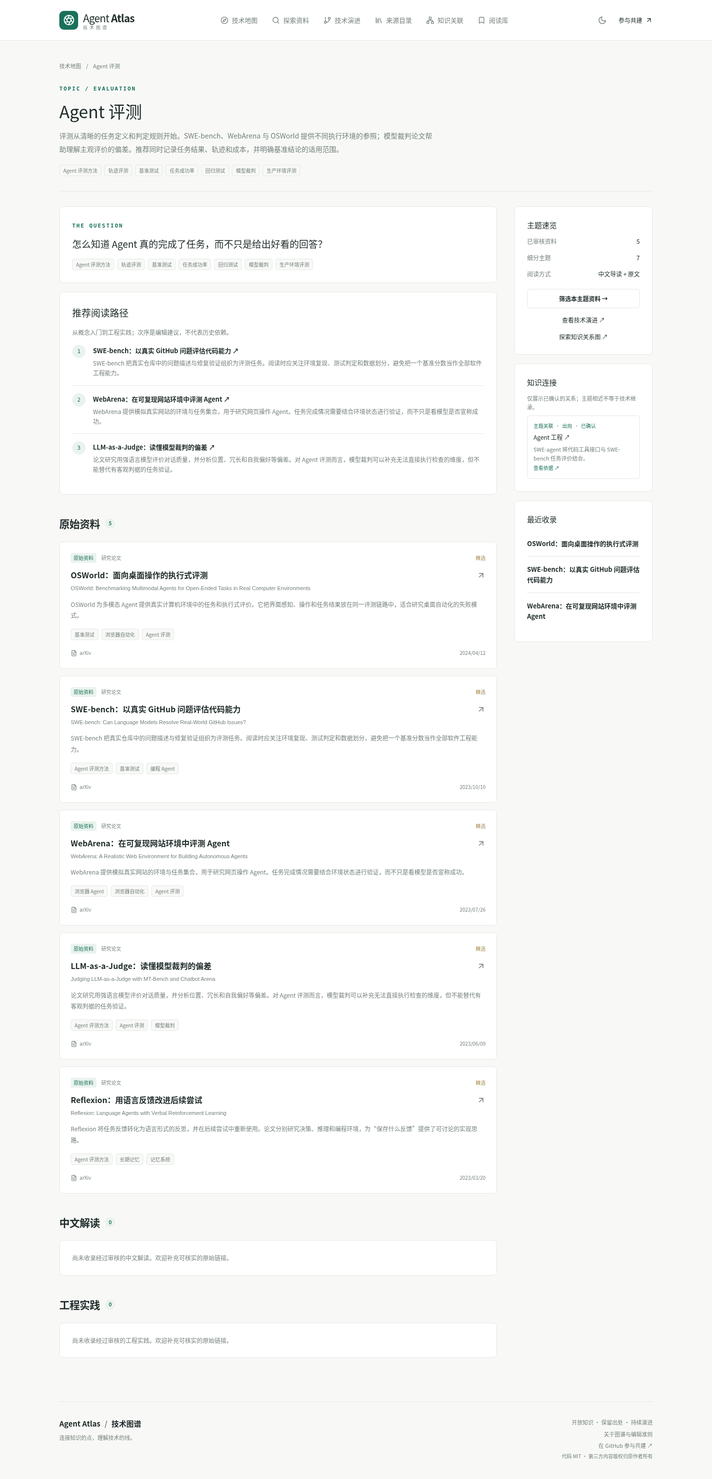
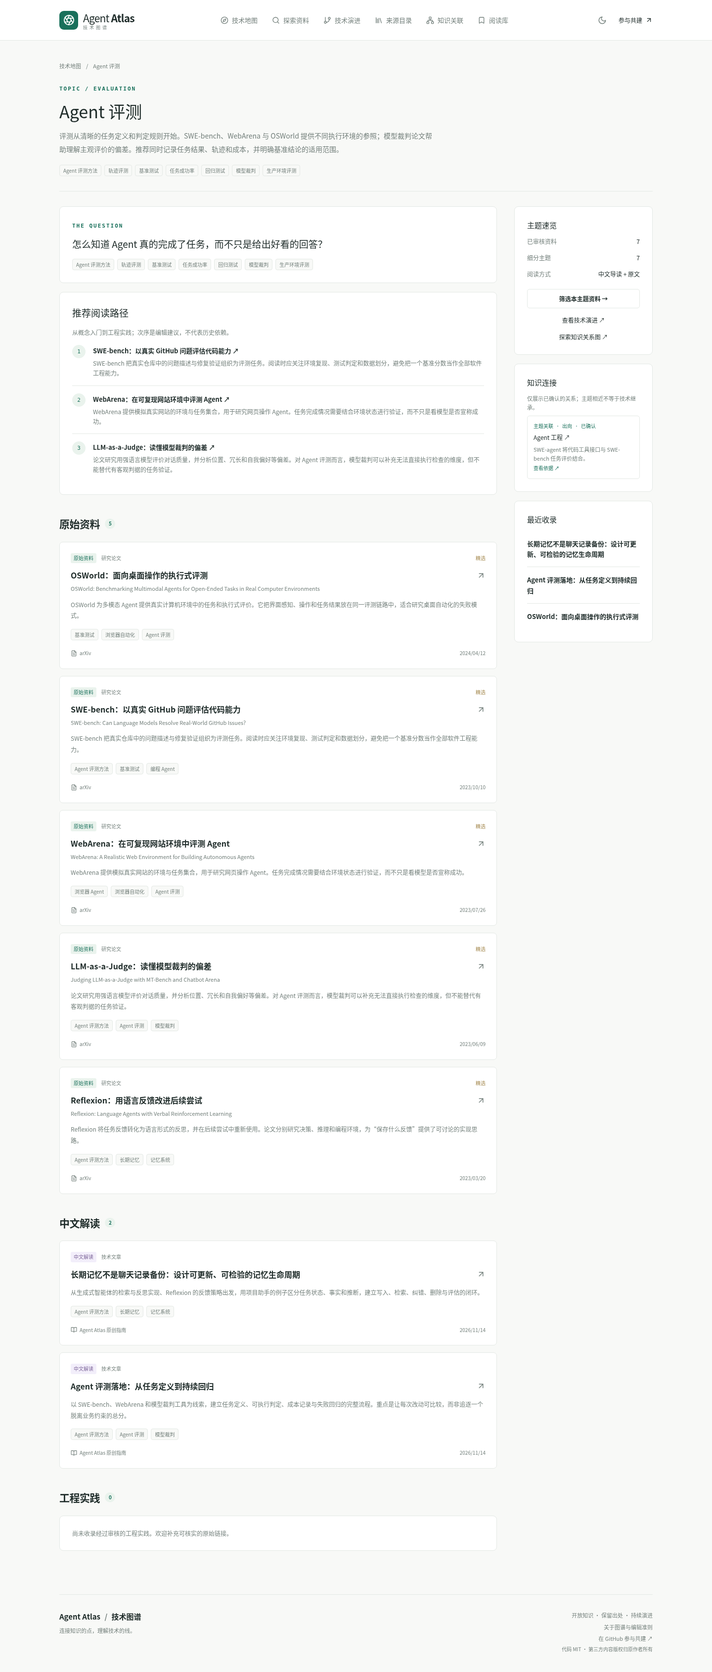
docs: document Render launch and Codex content workflow

diff --git a/PROGRESS.md b/PROGRESS.md
@@ -4,17 +4,17 @@
 
 ## 本轮完成模块
 
-| 提交                                                          | 内容                                                        | 状态         |
-| ------------------------------------------------------------- | ----------------------------------------------------------- | ------------ |
-| `91d9777`                                                     | 编辑历史/审计/任务锁迁移、加权检索、多层主题与稳定分页      | 已推送       |
-| `30a2dfc`                                                     | 持久客户端限流、代理信任边界、登录审计、密码轮换撤销会话    | 已推送       |
-| `7cb3c5b`                                                     | 并发编辑保护、历史差异与恢复、工程案例、主题CRUD、来源间隔  | 已推送       |
-| `806f7ee`                                                     | 安全代理、条件采集、持久调度/租约、失败隔离、重试与worker   | 已推送       |
-| `0b50dfa`                                                     | 知识图谱、收藏/已读/阅读库备份、动态SEO、RSS和站点地图      | 已推送       |
-| `8259381`                                                     | Docker/Compose、健康检查、一致性备份/离线恢复、部署回归与CI | 已推送       |
-| 本提交：`docs: finalize the verified Agent Atlas 1.0 release` | 1.0使用/部署/贡献文档、最新截图与验收记录                   | 随本提交推送 |
+| 提交      | 内容                                                        | 状态   |
+| --------- | ----------------------------------------------------------- | ------ |
+| `91d9777` | 编辑历史/审计/任务锁迁移、加权检索、多层主题与稳定分页      | 已推送 |
+| `30a2dfc` | 持久客户端限流、代理信任边界、登录审计、密码轮换撤销会话    | 已推送 |
+| `7cb3c5b` | 并发编辑保护、历史差异与恢复、工程案例、主题CRUD、来源间隔  | 已推送 |
+| `806f7ee` | 安全代理、条件采集、持久调度/租约、失败隔离、重试与worker   | 已推送 |
+| `0b50dfa` | 知识图谱、收藏/已读/阅读库备份、动态SEO、RSS和站点地图      | 已推送 |
+| `8259381` | Docker/Compose、健康检查、一致性备份/离线恢复、部署回归与CI | 已推送 |
+| `465a4c8` | 1.0使用/部署/贡献文档、最新截图与验收记录                   | 已推送 |
 
-最后一项可通过完整提交标题或 `git log -1 --format=%h` 定位。每个模块均先运行相关检查再提交推送，最终由主任务核对远端work与本地HEAD完全一致。
+完整历史可通过 `git log --oneline` 定位。每个模块均先运行相关检查再提交推送，最终由主任务核对远端work与本地HEAD完全一致。
 
 ## 当前产品能力
 
@@ -26,29 +26,29 @@
 - URL、微信公众号、JSON/CSV、RSS/Atom、GitHub元数据适配器；条件请求、到期调度、数据库租约、失败隔离、过期任务恢复和单来源重试。
 - 可选OpenAI兼容模型接口；规则建议、机器草稿和审核内容分开，无Key时人工流程完整可用。
 - Node.js 24或非root Docker/Compose部署，持续worker、健康检查、在线备份、受确认保护的离线恢复、持久卷和安全响应头。
-- 全新数据库：51个主题（7主要方向+44细分）、27条公开资料、13个来源、3个完整专题、12条种子关系。
+- 全新数据库：51个主题（7主要方向+44细分）、33条公开内容（27外部资料+6原创指南）、14个来源、3个完整专题、12条种子关系。
 - 本次工作区：另有真实MCP SDK feed收录的10条待审核资料及相应机器关系建议，未自动发布；无残留活动采集租约。
 
 ## 2026-11-14 验收结果
 
-| 检查                             | 实际结果                                                                                                              |
-| -------------------------------- | --------------------------------------------------------------------------------------------------------------------- |
-| Prisma generate / migrate / seed | 通过；升级迁移保留原有数据，重复seed不覆盖编辑                                                                        |
-| `npm run typecheck`              | 通过                                                                                                                  |
-| `npm test`                       | **60通过，0失败，0跳过**；包含隔离SQLite、会话/限流、版本并发、主题循环、查询、SSRF/代理、调度、AI协议、WAL备份与恢复 |
-| `npm run build`                  | 通过；后台和依赖运行配置的元数据路由保持动态                                                                          |
-| `npm run test:e2e`               | 5组生产Chromium脚本全部通过：公开页面、基本后台、历史/主题/并发、图谱/SEO/阅读、导入导出/公开接口/运维响应            |
-| 浏览器交互与布局                 | 图谱节点和证据、筛选空状态、暗色模式持久化、移动布局、历史恢复、过期输入保留；0浏览器运行时错误                       |
-| `npm audit`                      | 当前锁文件0漏洞；升级Zod4.6.6+、csv-parse7.0.2+，Prisma配置传递依赖deepmerge-ts覆盖至8+并验证生成/迁移                |
-| 真实来源采集                     | GitHub MCP SDK Atom首次10条待审；随后304未变更、无重复；任务页真实单源重试通过                                        |
-| 来源更新竞争                     | 修改feed时清空旧标记；在途旧200/304/503响应不能污染新来源状态或入库过时资料                                           |
-| Docker build                     | 完整构建成功，保留TLS校验；云代理CA使用BuildKit secret，不写入镜像                                                    |
-| Docker运行                       | UID1000、无.env、无构建期编辑口令；运行期配置后登录/编辑/发布/历史正常；默认CMD健康200                                |
-| Docker持久化与运维               | 在线备份→停止Web→离线恢复保留原库→同卷重启内容仍在；worker SIGTERM退出0且无遗留租约                                   |
-| 文档                             | 本地Markdown链接全部存在；安装、部署、代理、备份与贡献命令已更新                                                      |
-| GitHub Actions                   | 已配置无编辑密钥构建、完整测试与依赖审计；本次未读取远端Actions结果，不将本地通过描述为远端CI通过                     |
+| 检查                             | 实际结果                                                                                                                           |
+| -------------------------------- | ---------------------------------------------------------------------------------------------------------------------------------- |
+| Prisma generate / migrate / seed | 通过；升级迁移保留原有数据，重复seed不覆盖编辑                                                                                     |
+| `npm run typecheck`              | 通过                                                                                                                               |
+| `npm test`                       | **69通过，0失败，0跳过**；包含隔离SQLite、会话/限流、版本并发、主题循环、查询、SSRF/代理、调度、AI协议、WAL备份与恢复              |
+| `npm run build`                  | 通过；后台和依赖运行配置的元数据路由保持动态                                                                                       |
+| `npm run test:e2e`               | 6组生产Chromium脚本全部通过：公开页面、基本后台、历史/主题/并发、图谱/SEO/阅读、导入导出/公开接口/运维响应、原创指南/署名/移动阅读 |
+| 浏览器交互与布局                 | 图谱节点和证据、筛选空状态、暗色模式持久化、移动布局、历史恢复、过期输入保留；0浏览器运行时错误                                    |
+| `npm audit`                      | 当前锁文件0漏洞；升级Zod4.6.6+、csv-parse7.0.2+，Prisma配置传递依赖deepmerge-ts覆盖至8+并验证生成/迁移                             |
+| 真实来源采集                     | GitHub MCP SDK Atom首次10条待审；随后304未变更、无重复；任务页真实单源重试通过                                                     |
+| 来源更新竞争                     | 修改feed时清空旧标记；在途旧200/304/503响应不能污染新来源状态或入库过时资料                                                        |
+| Docker build                     | 完整构建成功，保留TLS校验；云代理CA使用BuildKit secret，不写入镜像                                                                 |
+| Docker运行                       | UID1000、无.env、无构建期编辑口令；运行期配置后登录/编辑/发布/历史正常；默认CMD健康200                                             |
+| Docker持久化与运维               | 在线备份→停止Web→离线恢复保留原库→同卷重启内容仍在；worker SIGTERM退出0且无遗留租约                                                |
+| 文档                             | 本地Markdown链接全部存在；安装、部署、代理、备份与贡献命令已更新                                                                   |
+| GitHub Actions                   | 已配置无编辑密钥构建、完整测试与依赖审计；本次未读取远端Actions结果，不将本地通过描述为远端CI通过                                  |
 
-真实容器验证使用隔离数据库卷，临时容器、卷及测试口令文件已清理。最终镜像 `agent-atlas:validation` 已重新构建纳入最后的来源编辑补丁。当前工作区生产服务运行于3000端口；正式部署的域名、HTTPS和持久磁盘按运维文档配置。
+真实容器验证使用隔离数据库卷，临时容器、卷及测试口令文件已清理。上一轮镜像 `agent-atlas:validation` 验证完整运维流程；本轮 `agent-atlas:render-validation` 进一步验证内容初始化和 Render 域名回退。当前工作区生产服务运行于3000端口；正式部署的域名、HTTPS和持久磁盘按运维文档配置。
 
 ## 已明确的运行边界
 
@@ -57,7 +57,7 @@
 - 部分原始资料站点受访问限制，种子元信息未逐条重新联网核实。保留出处和未知信息，继续依据原文纠错，不补造日期与效果。
 - 单实例SQLite、共享小团队编辑入口；未实现企业多角色或分布式高可用。PostgreSQL需要适配器、迁移和SQL语义重新验证。
 - 不提供公众号登录态采集、反爬绕过、全文自动转载、自动发布或自动云端同步个人阅读记录。
-- SITE_URL未配置时省略canonical，RSS返回明确不可用、sitemap为空；部署方需填写实际站点地址。公开部署和模型密钥不是源码中虚构的默认设置。
+- SITE_URL和RENDER_EXTERNAL_URL均未配置时省略canonical，RSS返回明确不可用、sitemap为空；Render平台域名可作为后备，其他部署需填写实际站点地址。公开部署和模型密钥不是源码中虚构的默认设置。
 
 ## 前一轮基础历史
 
@@ -80,3 +80,5 @@
 - 六篇 Codex 辅助原创指南已完成：架构选型、上下文预算、MCP边界、记忆生命周期、评测回归、可靠执行。JSON与可读Markdown原稿一同保存，每篇附固定Git提交的来源链接和核查记录，并明确尚未人工复核；未调用网站模型API。
 - 内容导入、正文编辑与公开阅读已完成集成：69项单元/数据库测试通过；6组生产Chromium脚本通过，新增指南发现/正文/来源与作者/收藏/移动阅读，以及正文编辑和历史恢复验收。
 - 最新 Docker 实测：正常CMD完成3个迁移，初始化33条已发布内容、6篇原创正文、14来源；仅配置RENDER_EXTERNAL_URL时canonical/RSS/sitemap地址正确。UID1000且镜像不含开发.env/数据库，同卷重启保留人工编辑；临时容器、测试卷与秘密文件已清理。这不是Render云端部署验收。
+
+本轮分段提交：`814ded9`（Render蓝图）、`3374090`（六篇指南与依据）、`ab98c8f`（内容导入/正文编辑与阅读），均已推送work。收尾文档与截图随 `docs: document Render launch and Codex content workflow` 提交推送。

diff --git a/docs/codex-content.md b/docs/codex-content.md
@@ -1,0 +1,102 @@
+# 用 Codex 会话维护网站内容
+
+前期内容可以直接在当前 Codex 会话中撰写、核对来源并保存到仓库，使用当前账号的 Codex 用量，无需为网站配置 `AI_API_KEY`。内容随代码和数据库导入流程发布，读者打开页面时不会为了显示这些文章而调用模型。具体可用额度与限制以账号显示为准，主机和域名费用另计。
+
+部署后的 Web 服务不能把 Codex 会话额度直接当作模型 API 余额。网站后台的“生成中文导读建议”是另一条可选路径，需要独立配置模型 API；前期保持 `AI_API_KEY` 为空即可。两条路径都不会把模型输出自动标记为人工审核。
+
+## 已准备的六篇原创指南
+
+以下是仓库中的 Markdown 内容存档，部署并完成初始化后，对应站内路径为 `/articles/<slug>`，例如 `/articles/atlas-context-budget`。这些链接不表示已有公网部署。
+
+| 内容                       | Markdown 原稿                                                                          |
+| -------------------------- | -------------------------------------------------------------------------------------- |
+| 工作流与 Agent Loop 的选型 | [atlas-workflow-agent-decision.md](../content/guides/atlas-workflow-agent-decision.md) |
+| 上下文预算与持久状态       | [atlas-context-budget.md](../content/guides/atlas-context-budget.md)                   |
+| MCP 工具接口与执行权限     | [atlas-mcp-tool-boundaries.md](../content/guides/atlas-mcp-tool-boundaries.md)         |
+| 长期记忆的生命周期         | [atlas-memory-lifecycle.md](../content/guides/atlas-memory-lifecycle.md)               |
+| Agent 评测与持续回归       | [atlas-evaluation-regression.md](../content/guides/atlas-evaluation-regression.md)     |
+| 可靠执行与故障恢复         | [atlas-durable-agent-execution.md](../content/guides/atlas-durable-agent-execution.md) |
+
+每篇保留至少三项原始依据、来源核查日期、适用读者和主题。首批来源使用实际读取的 GitHub 固定提交链接，核查范围见 [architecture.md](editorial-evidence/architecture.md)、[tools-memory.md](editorial-evidence/tools-memory.md) 与 [evaluation.md](editorial-evidence/evaluation.md)。正文区分资料描述、原创教学示例和工程建议，没有用虚构的性能数字填充案例。
+
+这六个 slug 是本次“使用 Codex 生成网站内容”请求所选的启动内容白名单。`npm run db:seed` 或 `npm run db:init` 会将缺失的六篇新增为已发布，署名为 **Agent Atlas · Codex 辅助整理**，`reviewedAt` 保持 `null`。页面明确显示 Codex 辅助创作和尚未人工复核；来源核查日期不能替代人工审核日期。后续新增的内容不会因为放进同一目录就自动发布。
+
+## 每次续写的实际流程
+
+可以直接给 Codex 这样的任务：
+
+> 为 Agent Atlas 新增两篇中文原创指南，主题是工具选择和浏览器 Agent 的任务验收。先读取已有内容，避免重复；实际核对至少三项原始资料，优先使用固定版本或提交链接。明确区分资料结论、教学例子与工程建议，不编造作者、日期或效果数据。按现有格式保存到 data/editorial 的新 JSON 文件，记录来源核查范围，生成 Markdown 并验证。每批完成后 commit / push 到 work。内容先导入待审核，保留 Codex 署名。
+
+一次批次按以下步骤完成：
+
+1. 选择已有主题，读取可访问的原始资料，写入 `data/editorial/批次名.json`。文件顶层为数组，字段格式见下节。无法读取的来源不能声称已核查。
+2. 生成可在 GitHub 阅读的 Markdown，并检查内容包与数据库主题。首次本地开发需先完成 README 中的依赖安装和 `npm run db:init`；`content:check` 需要可连接、已初始化的数据库。
+
+   ```bash
+   npm run content:render
+   npm run content:check
+   ```
+
+   `content:render` 只生成 `content/guides/*.md`，不写数据库。修改 JSON 后必须重新生成；`content:check` 检查字段、原稿一致性、主题和已有条目冲突，不调用模型、不写入内容，也不代替事实核查。输出的 `created` 表示拟新增项，`skipped` 表示已存在项。
+
+3. 检查本批差异，将 JSON、生成的 Markdown 和来源核查笔记一起保存，再推送：
+
+   ```bash
+   git diff --check
+   git status --short
+   git add data/editorial content/guides docs/editorial-evidence
+   git commit -m "content: add new Agent Atlas guides"
+   git push origin work
+   ```
+
+4. 按 [Render 发布指南](render.md) 部署已推送的代码。蓝图关闭自动部署，需在控制台选择 **Manual Deploy → Deploy latest commit**。部署会保留既有数据库；新增指南没有自动加入首批白名单。
+5. 部署完成后，在该 Web 服务 Shell 的 `/app` 下验证并导入新条目：
+
+   ```bash
+   npm run content:check
+   npm run content:import
+   ```
+
+   默认状态为 `pending_review`，公开页面和搜索不会显示这些待审条目。然后登录 `/admin`，核对正文、参考资料与主题，编辑并发布。网站不需要为这次导入配置模型 API。
+
+Render 首次分配的 HTTPS 地址会通过 `RENDER_EXTERNAL_URL` 提供给应用；未设置 `SITE_URL` 时使用它生成站点链接、RSS 和 sitemap。绑定自己的域名后，再设置真实的 `SITE_URL`。该配置决定访问地址，不负责把待审核内容改为已发布。
+
+## 内容包字段
+
+严格字段定义见 [schema.ts](../src/lib/editorial/schema.ts)。不要在 JSON 中添加 `status`、`reviewedAt` 或自定义作者字段；发布状态由导入命令决定，Codex 署名由程序统一设置。
+
+| 字段           | 要求与用途                                                                                                           |
+| -------------- | -------------------------------------------------------------------------------------------------------------------- |
+| `slug`         | 唯一的小写字母、数字和短横线标识，最长 120 字符；同时用于站内路径和 Markdown 文件名                                  |
+| `title`        | 中文标题，5–160 字符，准确表达范围                                                                                   |
+| `summary`      | 30–1,200 字符的导读，用于列表与阅读引导                                                                              |
+| `bodyMarkdown` | 500–40,000 字符的完整原创正文；从二级标题开始，写出依据、例子、取舍与原始资料链接                                    |
+| `takeaways`    | 3–8 项技术要点，每项 5–500 字符                                                                                      |
+| `audience`     | 3–500 字符，说明适合的读者                                                                                           |
+| `topics`       | 1–15 个已存在的主题 slug，不可重复；参考 [topics.json](../data/topics.json)                                          |
+| `references`   | 3–20 项不重复的来源，每项包含 `url`、`title`、`locator`；URL 必须是无凭据的 HTTPS 地址，`locator` 说明核对章节或函数 |
+| `verifiedAt`   | 实际核查日期，格式 `YYYY-MM-DD`，不能晚于今天；不是原始资料发布日期或人工审核时间                                    |
+
+可参照现有 [architecture.json](../data/editorial/architecture.json)、[tools-memory.json](../data/editorial/tools-memory.json) 和 [evaluation.json](../data/editorial/evaluation.json) 续写。正文、引用和核查记录都应使用独立表达，只保留必要摘录与出处，不复制未授权全文。
+
+## 显式发布与既有内容修订
+
+若某一新批次已经按本次任务要求完成核对，并明确要直接发布，可以使用：
+
+```bash
+npm run content:import -- --publish
+```
+
+`--publish` 仅改变本次**新建**文章的初始状态；仍保留 Codex 署名，`reviewedAt` 为 `null`，不会冒充人工审核。导入命令始终追加缺失内容，不覆盖既有正文、审核状态、主题或编辑历史。已经待审核、已发布或归档的条目都会跳过，重复导入也不会把它们重新发布。
+
+因此，修订已导入文章应在后台编辑；只改 JSON 并重新推送，不会自动覆盖数据库中的内容。数据库的后台修订也不会自动回写仓库 Markdown；需要同步存档时，更新 JSON、运行 `content:render` 并提交。已有 slug 或原稿地址属于不同内容时，导入会报告冲突，不能靠覆盖解决。
+
+## 与网站运行时 AI 草稿的区别
+
+| 路径                   | 用量来源            | 保存位置与发布行为                                                                           |
+| ---------------------- | ------------------- | -------------------------------------------------------------------------------------------- |
+| Codex 会话整理内容     | 当前 Codex 会话额度 | JSON 与 Markdown 入库前保存在 Git；默认导入待审核，显式发布仍保留 Codex 标记                 |
+| 后台“生成中文导读建议” | 独立模型 API 账户   | 读取条目元数据，将建议保存到私有 `aiDraft`；公开标题、导读、正文与发布状态不因生成草稿而改变 |
+| 手工编辑与发布         | 无模型调用          | 后台保存编辑字段、版本和审计，发布时记录编辑复核时间                                         |
+
+运行时 AI 使用 OpenAI 兼容接口，配置为 `AI_API_KEY`、`AI_BASE_URL` 和 `AI_MODEL`。当前实现只向模型提供标题、原始标题、来源地址和有限的描述元数据，不会因“生成导读”自动读取完整原文。未配置 API 时手工编辑、Codex 内容导入和整站阅读都可正常工作。未来启用时再按所选服务验证网络、模型、费用和输出质量；本次内容生成没有使用该 API 路径。

diff --git a/docs/architecture.md b/docs/architecture.md
@@ -22,7 +22,7 @@ flowchart LR
 | 实体                             | 职责                                                          |
 | -------------------------------- | ------------------------------------------------------------- |
 | `Topic`                          | 递归主题树、核心问题、概念、排序与跨主题阅读路径              |
-| `Article`                        | 元信息、中文导读、审核状态和递增编辑版本                      |
+| `Article`                        | 元信息、中文导读、原创 Markdown 正文、审核状态和递增编辑版本  |
 | `ArticleRevision`                | 修改前的不可变快照；包含主题、人物、工程案例及展示字段        |
 | `Source`                         | 来源、订阅地址、检查间隔、HTTP validators、最近检查/成功/错误 |
 | `Organization` / `Person`        | 机构及人物归属                                                |
@@ -41,6 +41,8 @@ flowchart LR
 
 内容状态为 `discovered → pending_review → published → archived`。公开查询只返回 `published`。采集写入原始元数据，机器草稿写入 `aiDraft`，编辑负责可展示的标题、导读、技术要点等字段；模型调用不会自动改变公开内容。
 
+首批六篇 Codex 会话辅助原创指南随仓库初始化发布，明确显示创作方式与尚未人工复核；与运行时采集草稿分开。`summary` 保留短导读，`bodyMarkdown` 保存原创正文，两者均进入编辑快照。`rawMetadata` 留存核查日期与参考资料，`aiDraft` 保存初始生成包。内容 CLI 先校验 JSON、Markdown 原稿一致性与主题引用，事务追加并记录审计；默认待审核，不覆盖现有记录。完整流程见 [Codex 内容流程](codex-content.md)。
+
 保存携带编辑打开页面时的 `Article.version`。事务内核对版本、验证发布条件、保存旧快照、更新关联与工程案例、递增版本并写审计；发生冲突时拒绝过期写入，避免静默覆盖。历史页支持查看差异；恢复旧快照仍遵守当前校验，并将状态设回 `pending_review`，需要重新审核。驳回记录原因并归档，保留历史。
 
 后台主题管理允许多层分类和跨主题阅读路径。父子循环被拒绝；有资料、子主题或关系引用的主题不能直接删除或修改 URL 标识。阅读路径只接受已发布资料，公开查询按编辑顺序显示，后续归档条目不会继续公开。
@@ -53,7 +55,7 @@ flowchart LR
 
 ## 检索与个人阅读
 
-`src/lib/search/query.ts` 使用参数绑定 SQL。输入进行 Unicode 规范化、大小写与空白处理，多关键词按 AND 匹配；标题、原始标题、主题、作者和摘要采用不同权重。搜索支持相关度、新到旧、旧到新排序及稳定分页；机构、来源、平台、资料层次、语言、质量、日期等可组合过滤。主题过滤递归包含全部后代。
+`src/lib/search/query.ts` 使用参数绑定 SQL。输入进行 Unicode 规范化、大小写与空白处理，多关键词按 AND 匹配；标题、原始标题、主题、作者、摘要和原创正文采用不同权重，正文命中权重低于标题及摘要。搜索支持相关度、新到旧、旧到新排序及稳定分页；机构、来源、平台、资料层次、语言、质量、日期等可组合过滤。主题过滤递归包含全部后代。
 
 这是中文子串和字段权重检索，不是语义问答。后续迁移全文索引时，应保留过滤、审核边界、稳定排序与分页语义，用中文样本验证召回。
 

diff --git a/docs/content.md b/docs/content.md
@@ -8,6 +8,7 @@
 - `articles.json`：资料、中文导读、技术要点和可选工程案例。
 - `sources.json` / `organizations.json` / `people.json`：来源、机构和人物。
 - `relations.json`：带证据、类型与审核状态的知识关系。
+- `editorial/*.json`：Codex 会话辅助撰写的原创指南、主题与引用；对应可读原稿由命令生成到 `content/guides/`。
 
 种子程序按固定 ID 或规范地址追加缺失数据，不覆盖数据库现有编辑。修改 JSON 是修改未来初始化模板；修订已有线上内容需通过后台完成，或单独编写审阅过的数据迁移。
 
@@ -46,9 +47,19 @@
 - `type` 为 `paper/article/docs/repository/podcast`。
 - `layer` 为 `primary/community/engineering`，分别表示原始资料、中文解读和工程实践。
 - `quality` 为 `curated/standard`，是编辑整理等级，不是来源真实性的自动保证。
-- 公开内容必须经过人工核对；采集草稿与模型建议不能直接视为已审核结果。
+- 常规采集草稿和运行时模型建议先进入待审流程，核对后发布；“已发布”与“经过人工复核”是不同状态。首批 Codex 原创指南采用下节的明确标注规则，不能视为人工审核结果。
 
 首批资料来自真实公开链接。开发环境对部分网站的访问限制意味着仍需社区持续核验元信息；纠错时请附可验证的原始依据，不仅提供模型回答或转述。
+
+## Codex 原创指南与模型草稿
+
+本次网站内容请求形成了六篇原创指南，分别覆盖架构选型、上下文预算、MCP 权限、长期记忆、评测回归和可靠执行。内容及续写命令见 [Codex 内容工作流](codex-content.md)。这些指南使用当前 Codex 会话额度编写，不需要网站模型 API 密钥；部署后的服务不能直接把 Codex 用量当作 API 余额。
+
+首批六个 slug 是代码中显式选定的启动内容：seed 追加缺失条目并发布，统一署名“Agent Atlas · Codex 辅助整理”，保留来源核查记录，`reviewedAt` 为 `null`。页面说明尚未人工复核，不将自动核对来源伪装成人审。这个启动内容安排不会扩大为以后新增内容的自动发布规则。
+
+续写内容保存到 `data/editorial/*.json` 后，先运行 `npm run content:render`，再运行 `npm run content:check`。JSON 与生成的 Markdown 必须一致，且一起提交。`npm run content:import` 默认追加为待审核；显式使用 `--publish` 只发布本次新建条目，也不会填写人工复核时间。重复导入跳过已存在内容，既有编辑、待审状态和归档状态均不会被覆盖。线上修订使用后台；修改 JSON 不会自动改写已导入的正文。
+
+网站运行时的“生成中文导读建议”使用单独配置的模型 API，只根据条目元数据生成建议，保存到私有 `aiDraft`。它不会自动替换公开内容、发布文章或确认知识关系；编辑核对后再手动采纳。采集原始元数据、模型草稿与公开编辑内容保持分离。没有模型 API 密钥时，这条可选路径不可用，手工编辑和 Codex 内容包流程仍可使用。
 
 ## 后台修订与历史
 

diff --git a/docs/render.md b/docs/render.md
@@ -15,16 +15,16 @@ Render 提供 `RENDER_EXTERNAL_URL`，应用在未显式配置 `SITE_URL` 时将
 
 ## 配置与费用边界
 
-| 配置 | 蓝图默认值与用途 |
-| --- | --- |
-| `plan: starter` | 支持持久磁盘的入门付费实例；创建前确认平台当前规格与价格 |
-| `numInstances: 1` | 单实例 SQLite；不要直接扩为多个 Web 实例 |
-| `/app/storage` | 持久磁盘挂载点，数据库为 `atlas.db`；应用的 `/app/data` 另存种子 JSON |
-| `ADMIN_PASSWORD`、`SESSION_SECRET` | 由 Render `generateValue` 创建的私密环境值；不写入 Git |
-| `AI_API_KEY` | 空值；网站不自动调用付费模型服务 |
-| `ALLOW_INSECURE_ADMIN_COOKIE` | `false`；通过平台 HTTPS 访问后台 |
-| `TRUST_PROXY` | `false`；不假设 Render 转发头是已验证的单一客户端 IP |
-| `autoDeploy: false` | 推送代码后由控制台手动部署，便于先备份与核对内容 |
+| 配置                               | 蓝图默认值与用途                                                      |
+| ---------------------------------- | --------------------------------------------------------------------- |
+| `plan: starter`                    | 支持持久磁盘的入门付费实例；创建前确认平台当前规格与价格              |
+| `numInstances: 1`                  | 单实例 SQLite；不要直接扩为多个 Web 实例                              |
+| `/app/storage`                     | 持久磁盘挂载点，数据库为 `atlas.db`；应用的 `/app/data` 另存种子 JSON |
+| `ADMIN_PASSWORD`、`SESSION_SECRET` | 由 Render `generateValue` 创建的私密环境值；不写入 Git                |
+| `AI_API_KEY`                       | 空值；网站不自动调用付费模型服务                                      |
+| `ALLOW_INSECURE_ADMIN_COOKIE`      | `false`；通过平台 HTTPS 访问后台                                      |
+| `TRUST_PROXY`                      | `false`；不假设 Render 转发头是已验证的单一客户端 IP                  |
+| `autoDeploy: false`                | 推送代码后由控制台手动部署，便于先备份与核对内容                      |
 
 现阶段通过 Codex 会话整理内容，再随代码发布；这使用当前 Codex 会话额度。部署后的 Web 服务无法把 Codex 登录额度当成模型 API Key。若将来需要网站自行生成导读，再单独配置模型提供商、API 凭证和费用限额。
 

diff --git a/docs/screenshots/README.md b/docs/screenshots/README.md
@@ -2,12 +2,14 @@
 
 截图取自实际运行的生产构建，不是设计稿。数据库会随收录和审核变化，画面中的数量不应当成固定产品限制。
 
-| 截图                     | 内容                                             |
-| ------------------------ | ------------------------------------------------ |
-| [home.png](home.png)     | 桌面技术地图、主题方向、阅读专题、资料与工程实践 |
-| [mobile.png](mobile.png) | 手机端导航、技术地图与内容布局                   |
-| [topic.png](topic.png)   | 主题概述、阅读路径、分层资料与关联线索           |
-| [graph.png](graph.png)   | 关系图、聚焦节点、证据列表与筛选入口             |
+| 截图                                 | 内容                                             |
+| ------------------------------------ | ------------------------------------------------ |
+| [home.png](home.png)                 | 桌面技术地图、主题方向、阅读专题、资料与工程实践 |
+| [mobile.png](mobile.png)             | 手机端导航、技术地图与内容布局                   |
+| [topic.png](topic.png)               | 主题概述、阅读路径、分层资料与关联线索           |
+| [graph.png](graph.png)               | 关系图、聚焦节点、证据列表与筛选入口             |
+| [guide.png](guide.png)               | 原创指南正文、Codex 创作说明与核查资料           |
+| [guide-mobile.png](guide-mobile.png) | 手机端原创教程与参考资料阅读                     |
 
 主要页面可以从导航与后台复现：
 

diff --git a/docs/deployment.md b/docs/deployment.md
@@ -2,6 +2,8 @@
 
 Agent Atlas 支持 Node.js 24+ 单实例服务或 Docker Compose。Web 和可选采集 worker 共享一个持久 SQLite 数据库。本文描述部署步骤；不代表项目已部署到某个公网域名。健康、备份、恢复的详细操作见 [operations.md](operations.md)。
 
+本项目已提供 [Render Blueprint](../render.yaml)，适合先用平台 HTTPS 域名发布完整网站，具体操作和费用边界见 [Render 上线步骤](render.md)。Render 中 `SITE_URL` 可留空，自动使用平台注入的 `RENDER_EXTERNAL_URL`。
+
 ## 先准备配置
 
 首次复制 `.env.example` 到 `.env`，已有配置不要覆盖。设置至少 12 字符的 `ADMIN_PASSWORD`、至少 32 字符的 `SESSION_SECRET`，以及实际站点根地址 `SITE_URL`。凭证在运行时注入，构建不要求编辑口令，也不应把 `.env` 放进镜像。
